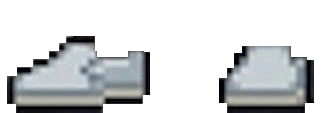
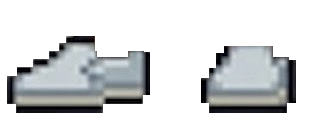
Add indoor shoes

Changed region(s): [[0.6079, 0.3982, 0.9726, 1.0]]

diff --git a/frontend/src/components/ClosetPopup/ItemConfig.js b/frontend/src/components/ClosetPopup/ItemConfig.js
@@ -6,6 +6,7 @@ const CATEGORY_CONFIG = {
   masks:   { id: 'masks',   label: 'Masks',   order: 1, stackable: false },
   body:    { id: 'body',    label: 'Body',    order: 2, stackable: false },
   gloves:  { id: 'gloves',  label: 'Gloves',  order: 3, stackable: true  },
+  footwear:  { id: 'footwear',  label: 'Footwear',  order: 4, stackable: false  },
 };
 
 // Image paths are derived from each item's id + category, so the asset tree is
@@ -166,7 +167,14 @@ const EQUIPMENT_CONFIG = buildEquipment({
       transform: 'scale(2.4) rotate(-2deg) translateY(5px)', transformOrigin: 'top center',
     }
   },
-
+  indoor_shoes: {
+    category: 'footwear',
+    label: 'Indoor shoes',
+    equippedStyle: {
+      position: 'absolute', top: '299px', left: '86px', width: '60px', height: 'auto',
+      transform: 'scale(2.1) rotate(-2deg) translateY(5px)', transformOrigin: 'top center',
+    }
+  },
 });
 
 // Pure equip rule: returns a new equipped map with `itemId` on. For a

diff --git a/frontend/src/game/player/EquipmentManager.js b/frontend/src/game/player/EquipmentManager.js
@@ -15,7 +15,8 @@ export default class EquipmentManager {
             gloves_2: { scale: 0.085, offsetX: -1.5, offsetY: 14, depth: 13 },
             closable_lab_coat: { scale: 0.33, offsetX: -1, offsetY: 7, depth: 11 },
             pressurized_suit: { scale: 0.085, offsetX: 0, offsetY: 0, depth: 11 },
-            wow_helmet: { scale: 0.1, offsetX: -2, offsetY: -31, depth: 13 }
+            wow_helmet: { scale: 0.1, offsetX: -2, offsetY: -31, depth: 13 },
+            indoor_shoes: { scale: 0.105, offsetX: -2, offsetY: 39, depth: 13 }
         };
 
         this.sprites = {};

diff --git a/frontend/src/game/assets/loadAssets.js b/frontend/src/game/assets/loadAssets.js
@@ -17,6 +17,7 @@ export function loadAssets(scene) {
     scene.load.image('closable_lab_coat', 'assets/equipment/on_character/body/closable_lab_coat_on.png');
     scene.load.image('pressurized_suit', 'assets/equipment/on_character/body/pressurized_suit_on.png');
     scene.load.image('wow_helmet', 'assets/equipment/on_character/eyewear/wow_helmet_on.png');
+    scene.load.image('indoor_shoes', 'assets/equipment/on_character/footwear/indoor_shoes_on.png');
 
     // Game area elements
     scene.load.image('dresser', 'assets/game_arena_elements/dresser.png');
